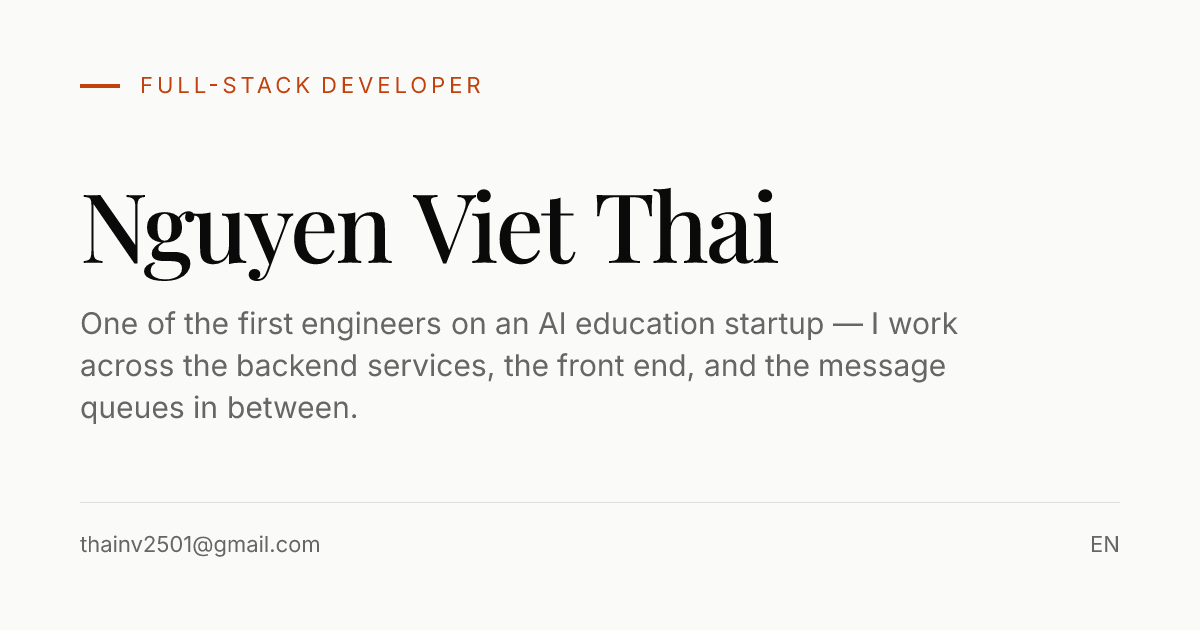
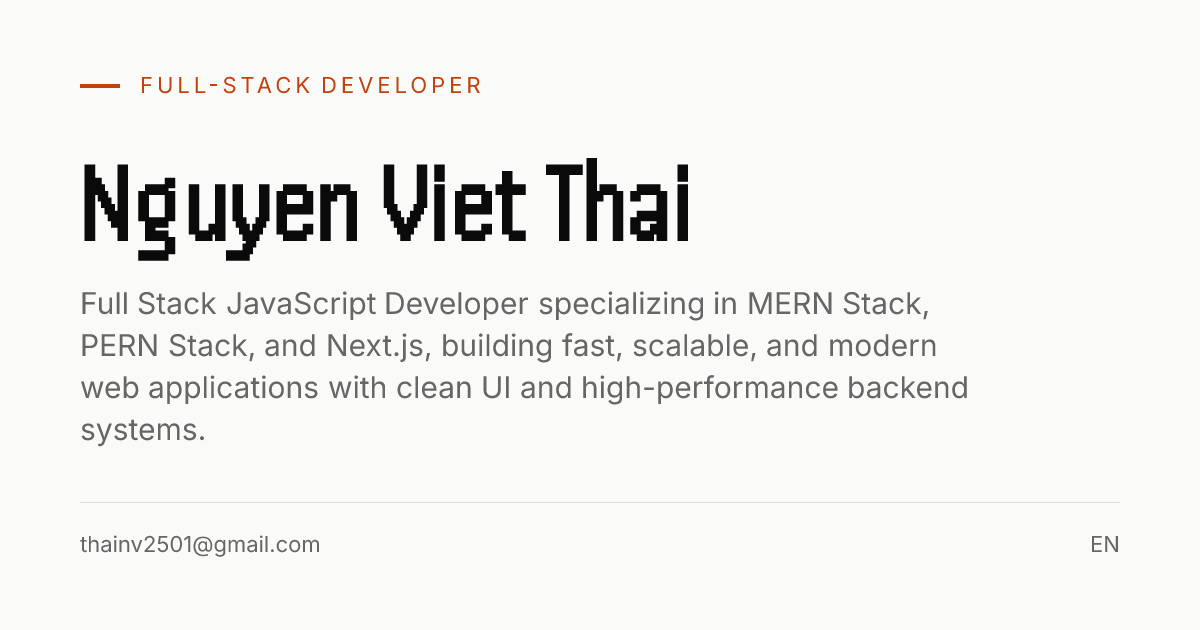
fix(og): Handjet replaces Playfair Display on the social cards
generate-og.ts still loaded Playfair Display, so every link preview
carried the previous design's serif identity while the site behind it was
pixel — and DESIGN.md asserted Playfair was "removed entirely", which was
simply false.

Now loads Handjet at weight 700, matching the display token. The template
picks up that token's metrics too: lineHeight 1.05 -> 0.92 and
letterSpacing -3 -> +1, because negative tracking was a serif-era value
and closes up the columns of a pixel face.

Vietnamese coverage needed its own check. The strings that actually reach
the cards (PROFILE.name, hero.role, hero.positioning, the email) are pure
ASCII in both locales today, so the shipped PNGs cannot demonstrate
diacritic rendering either way. A throwaway probe pushed
"Nguyen Viet Thai — DU AN TIEU BIEU" with full diacritics through the
same loadGoogleFont -> satori -> resvg path: every mark composed
correctly, no tofu. Probe deleted.

Both PNGs regenerated and looked at, not just checked for exit 0, and
committed this time.

Note for the owner: the /vi card shows English body text. That is not an
OG bug — hero.positioning and hero.role are identical strings for both
locales in content/hero.ts. Translating them is a content decision, not
something to invent here.

Changed region(s): [[0.0617, 0.2413, 0.8325, 0.7238]]

diff --git a/scripts/generate-og.ts b/scripts/generate-og.ts
@@ -23,6 +23,9 @@ import { locales, type Locale } from "../src/lib/i18n.ts";
 const WIDTH = 1200;
 const HEIGHT = 630;
 
+/** Khớp fontWeight của token `display` trong tailwind.config.ts. */
+const DISPLAY_WEIGHT = 700;
+
 /**
  * Bảng màu của ảnh OG, khớp với token trong globals.css.
  * Đổi THEME sang "dark" nếu muốn thẻ social nền đen thay vì nền sáng.
@@ -153,9 +156,12 @@ function template(locale: Locale) {
           style: {
             display: "flex",
             fontFamily: "Display",
-            fontSize: 96,
-            lineHeight: 1.05,
-            letterSpacing: -3,
+            // Khớp token `display`: lineHeight 0.92, letterSpacing 0.01em.
+            // Tracking ÂM là của thiết kế serif cũ — Handjet là font điểm ảnh,
+            // bóp âm là các cột chữ dính vào nhau.
+            fontSize: 112,
+            lineHeight: 0.92,
+            letterSpacing: 1,
             color: COLORS.fg,
           },
         },
@@ -209,8 +215,12 @@ async function main() {
     .concat(PROFILE.email)
     .join(" ");
 
+  // Handjet, không phải Playfair Display: thẻ social là thứ người ta nhìn
+  // thấy TRƯỚC khi mở site, nên nó phải mang đúng nhận diện pixel của trang
+  // chứ không phải serif của thiết kế cũ. Handjet có subset `vietnamese`,
+  // nên chữ có dấu trong tên/tiêu đề không ra ô vuông.
   const [displayFont, bodyFont] = await Promise.all([
-    loadGoogleFont("Playfair Display", headingText, 500),
+    loadGoogleFont("Handjet", headingText, DISPLAY_WEIGHT),
     loadGoogleFont("Inter", bodyText, 400),
   ]);
 
@@ -219,7 +229,7 @@ async function main() {
       width: WIDTH,
       height: HEIGHT,
       fonts: [
-        { name: "Display", data: displayFont, weight: 500, style: "normal" },
+        { name: "Display", data: displayFont, weight: DISPLAY_WEIGHT, style: "normal" },
         { name: "Body", data: bodyFont, weight: 400, style: "normal" },
       ],
     });
